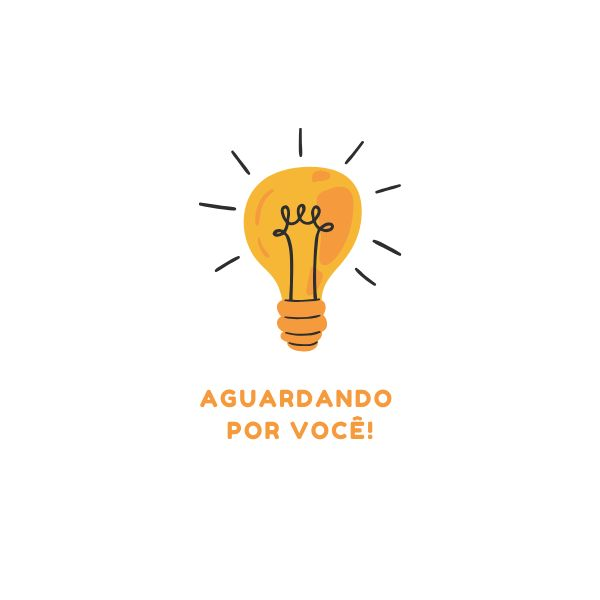
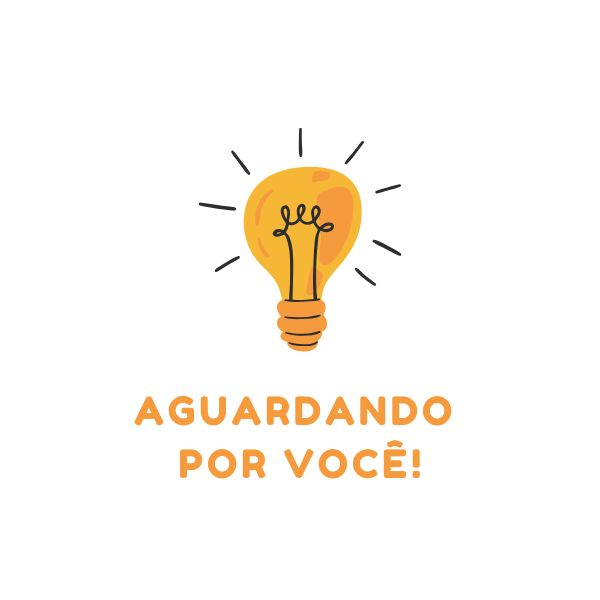
Add files via upload

Changed region(s): [[0.21, 0.63, 0.75, 0.81]]

diff --git a/index.html b/index.html
@@ -126,6 +126,30 @@
         </div>
     </main>
 
+    <!-- Newsletter Section -->
+    <section class="newsletter" style="background: #f9f9f9; border-top: 1px solid #eee; border-bottom: 1px solid #eee; padding: 80px 0;">
+        <div class="container">
+            <div class="newsletter-content" style="max-width: 600px; margin: 0 auto; text-align: center;">
+                <h2 style="color: #c41e3a; font-size: 2.5rem; font-weight: 800; margin-bottom: 15px;">Newsletter</h2>
+                <p style="color: #666; font-size: 1.1rem; margin-bottom: 35px;">Receba as principais notícias jurídicas em seu e-mail</p>
+                
+                <form class="newsletter-form" id="newsletterForm" style="display: flex; flex-direction: column; gap: 15px;">
+                    <input type="email" id="newsletterEmailMain" placeholder="Seu melhor e-mail" required style="padding: 15px 25px; border: 1px solid #ddd; border-radius: 30px; font-family: inherit; font-size: 1rem; width: 100%; box-shadow: 0 2px 5px rgba(0,0,0,0.03);">
+                    
+                    <div style="display: flex; align-items: flex-start; gap: 10px; text-align: left; padding: 0 10px;">
+                        <input type="checkbox" id="newsletterConsentMain" required style="margin-top: 5px; cursor: pointer; width: 18px; height: 18px;">
+                        <label for="newsletterConsentMain" style="font-size: 0.85rem; color: #777; line-height: 1.4; cursor: pointer;">
+                            Aceito receber notificações e e-mails informativos do Justiça em Dia. Seus dados estão seguros conosco.
+                        </label>
+                    </div>
+
+                    <button type="submit" id="newsletterSubmitBtnMain" class="btn" style="background: #c41e3a; color: #fff; border: none; padding: 15px 40px; border-radius: 10px; font-weight: 700; font-size: 1.1rem; cursor: pointer; transition: all 0.3s ease; margin-top: 10px; box-shadow: 0 4px 15px rgba(196, 30, 58, 0.2);">Inscrever</button>
+                </form>
+                <div id="newsletterMessageMain" style="margin-top: 20px; font-size: 0.95rem; display: none; padding: 12px; border-radius: 8px;"></div>
+            </div>
+        </div>
+    </section>
+
     <!-- Footer -->
         <footer class="footer">
         <div class="container">
@@ -180,5 +204,89 @@
     <script src="js/pagination.apoiadores.js"></script>
     <script src="js/newsletter-injector.js"></script>
     
+    <script>
+        // Lógica de submissão da Newsletter principal (index.html)
+        document.addEventListener('DOMContentLoaded', function() {
+            const form = document.getElementById('newsletterForm');
+            const messageDiv = document.getElementById('newsletterMessageMain');
+            const submitBtn = document.getElementById('newsletterSubmitBtnMain');
+
+            if (form) {
+                form.addEventListener('submit', async (e) => {
+                    e.preventDefault();
+                    
+                    const email = document.getElementById('newsletterEmailMain').value;
+                    const consent = document.getElementById('newsletterConsentMain').checked;
+                    const date = new Date().toLocaleString('pt-BR');
+
+                    if (!consent) {
+                        messageDiv.textContent = 'Você precisa aceitar os termos para continuar.';
+                        messageDiv.style.color = '#c41e3a';
+                        messageDiv.style.display = 'block';
+                        return;
+                    }
+
+                    // Feedback visual
+                    submitBtn.disabled = true;
+                    submitBtn.textContent = 'Enviando...';
+                    submitBtn.style.opacity = '0.7';
+
+                    const GOOGLE_SCRIPT_URL = 'https://script.google.com/macros/s/AKfycbwLrq1GUmSq2ZlDtRD2Ma54VJrk8RdJG40vC2bODcjJNRSU6M3_nZFfNj_T1xFx2uuN/exec'; 
+
+                    const formData = {
+                        email: email,
+                        data: date,
+                        aceite: 'Sim',
+                        data_aceite: date,
+                        origem: 'Home - Newsletter Principal'
+                    };
+
+                    try {
+                        // Salvar Localmente
+                        let subscribers = JSON.parse(localStorage.getItem('newsletter_subscribers') || '[]');
+                        if (!subscribers.some(s => s.email === email)) {
+                            subscribers.push(formData);
+                            localStorage.setItem('newsletter_subscribers', JSON.stringify(subscribers));
+                        }
+
+                        // Enviar para Google Sheets
+                        const params = new URLSearchParams();
+                        for (const key in formData) {
+                            params.append(key, formData[key]);
+                        }
+                        const finalUrl = `${GOOGLE_SCRIPT_URL}?${params.toString()}`;
+                        
+                        await fetch(finalUrl, {
+                            method: 'GET',
+                            mode: 'no-cors',
+                            cache: 'no-cache'
+                        });
+
+                        // Sucesso
+                        messageDiv.textContent = 'Inscrição realizada com sucesso! Obrigado por nos acompanhar.';
+                        messageDiv.style.backgroundColor = '#d4edda';
+                        messageDiv.style.color = '#155724';
+                        messageDiv.style.border = '1px solid #c3e6cb';
+                        messageDiv.style.display = 'block';
+                        form.reset();
+
+                    } catch (err) {
+                        console.error('Erro:', err);
+                        messageDiv.textContent = 'Erro ao processar. Tente novamente mais tarde.';
+                        messageDiv.style.color = '#c41e3a';
+                        messageDiv.style.display = 'block';
+                    } finally {
+                        submitBtn.disabled = false;
+                        submitBtn.textContent = 'Inscrever Agora';
+                        submitBtn.style.opacity = '1';
+                        
+                        setTimeout(() => {
+                            messageDiv.style.display = 'none';
+                        }, 6000);
+                    }
+                });
+            }
+        });
+    </script>
 </body>
 </html>

diff --git a/css/styles.css b/css/styles.css
@@ -51,6 +51,32 @@ img {
     margin: 0 !important;
 }
 
+/* Newsletter */
+.newsletter {
+    padding: 60px 0;
+    text-align: center;
+}
+
+.newsletter-content h2 {
+    font-size: 28px;
+    margin-bottom: 15px;
+}
+
+.newsletter-form {
+    margin-top: 30px;
+    display: flex;
+    justify-content: center;
+    gap: 10px;
+}
+
+.newsletter-form input {
+    padding: 12px 20px;
+    width: 300px;
+    border-radius: 4px;
+    border: none;
+    outline: none;
+}
+
 .market-ticker {
     display: flex;
     overflow: hidden;
@@ -423,6 +449,16 @@ img {
         max-height: 60vh;
         overflow-y: auto;
     }
+
+        .newsletter-form {
+        flex-direction: column;
+        align-items: center;
+    }
+    
+    .newsletter-form input {
+        width: 100%;
+    }
+    
 }
 
 .no-results {

diff --git a/js/script.js b/js/script.js
@@ -26,21 +26,7 @@ if (menuToggle && mainNav) {
     });
 }
 
-// Newsletter Form
-const newsletterForm = document.getElementById('newsletterForm');
-
-if (newsletterForm) {
-    newsletterForm.addEventListener('submit', (e) => {
-        e.preventDefault();
-        const emailInput = newsletterForm.querySelector('input[type="email"]');
-        const email = emailInput.value.trim();
-        
-        if (email) {
-            alert('Obrigado por se inscrever! Confirme seu e-mail: ' + email);
-            emailInput.value = '';
-        }
-    });
-}
+// Newsletter Form (Tratamento específico movido para os arquivos HTML ou injetores)
 
 // Smooth Scroll for Links
 document.querySelectorAll('a[href^="#"]').forEach(anchor => {

diff --git a/direito-de-familia/como-comprovar-uniao-estavel.html b/direito-de-familia/como-comprovar-uniao-estavel.html
@@ -392,7 +392,7 @@
             
         </aside>
     </main>
-    </main>
+
 
     <!-- Footer -->
             <footer class="footer">
